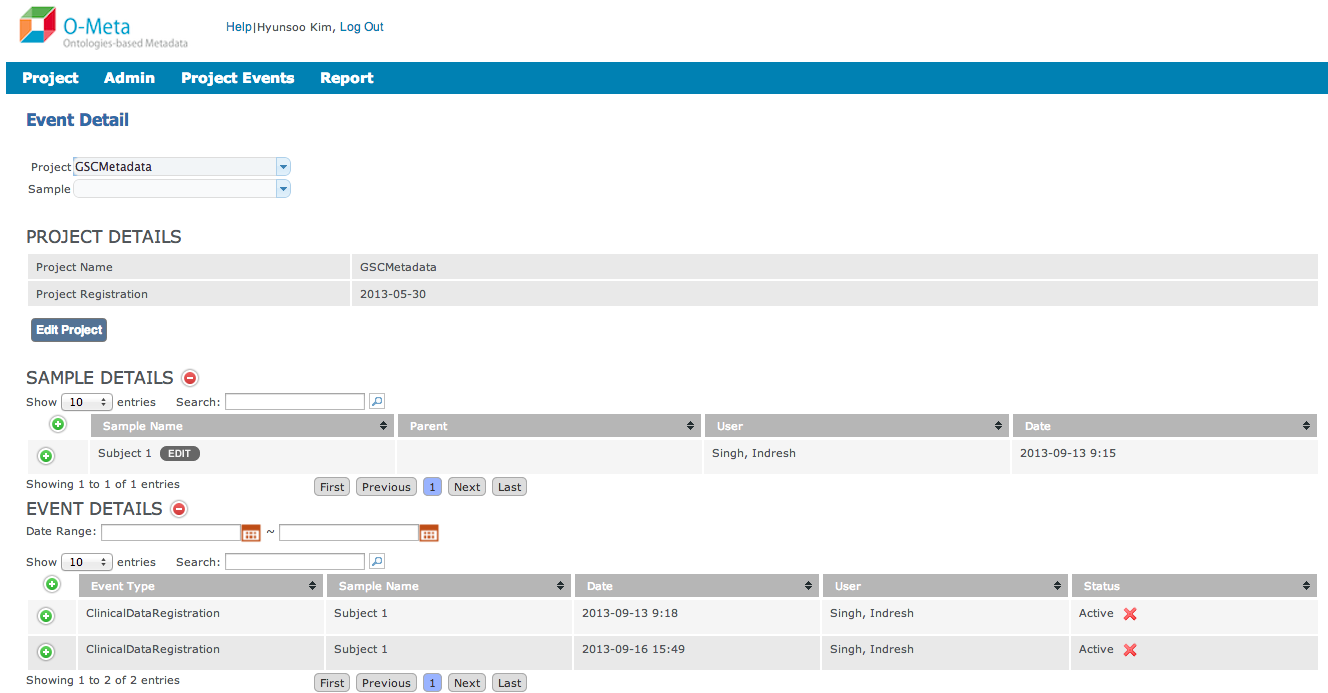
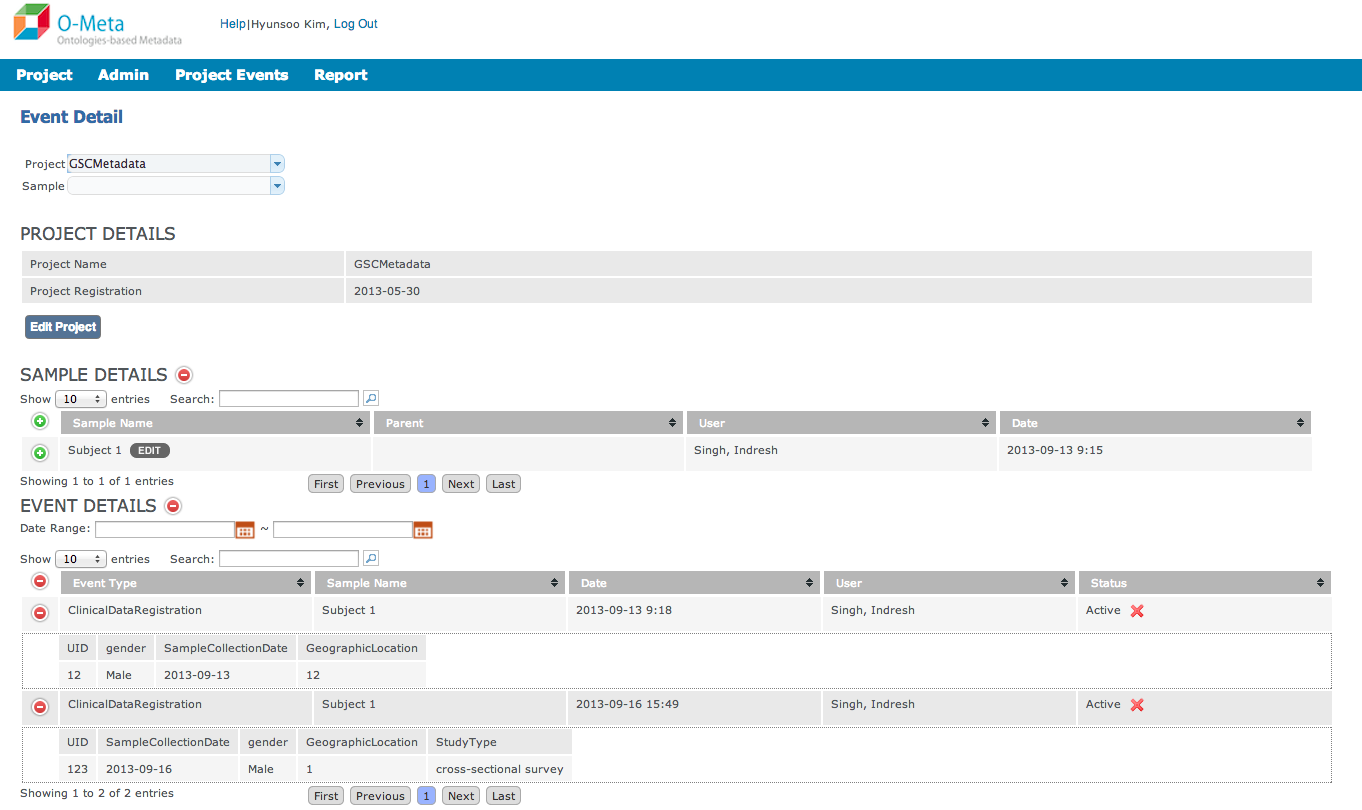
update event detail page screenshot in README

Changed region(s): [[0.0, 0.0, 1.0, 1.0], [0.247, 0.303, 0.3396, 0.4545], [0.1852, 0.1818, 0.2161, 0.303]]

diff --git a/README.md b/README.md
@@ -20,6 +20,10 @@ O-META (Ontologies based metadata tracking system) is a data driven application 
 * Project and Sample attributes can be configures (without code change) based on tracking requirements.
 * Project and Sample attributes can be updated through multiple events like sample registration, sample QC, sample aliquot etc.
 
+##### Screenshots
+|![alt text](https://raw.github.com/movence/ometa/master/main/src/www/images/screenshot/eventLoader.png "Event Loader")|
+------------------------------------------------------
+|![alt text](https://raw.github.com/movence/ometa/master/main/src/www/images/screenshot/eventLoader.png "Event Detail")|
 
 ##### License
 <a rel="license" href="http://creativecommons.org/licenses/by/4.0/"><img alt="Creative Commons License" style="border-width:0" src="http://i.creativecommons.org/l/by/4.0/88x31.png" /></a><br />This work is licensed under a <a rel="license" href="http://creativecommons.org/licenses/by/4.0/">Creative Commons Attribution 4.0 International License</a>.
